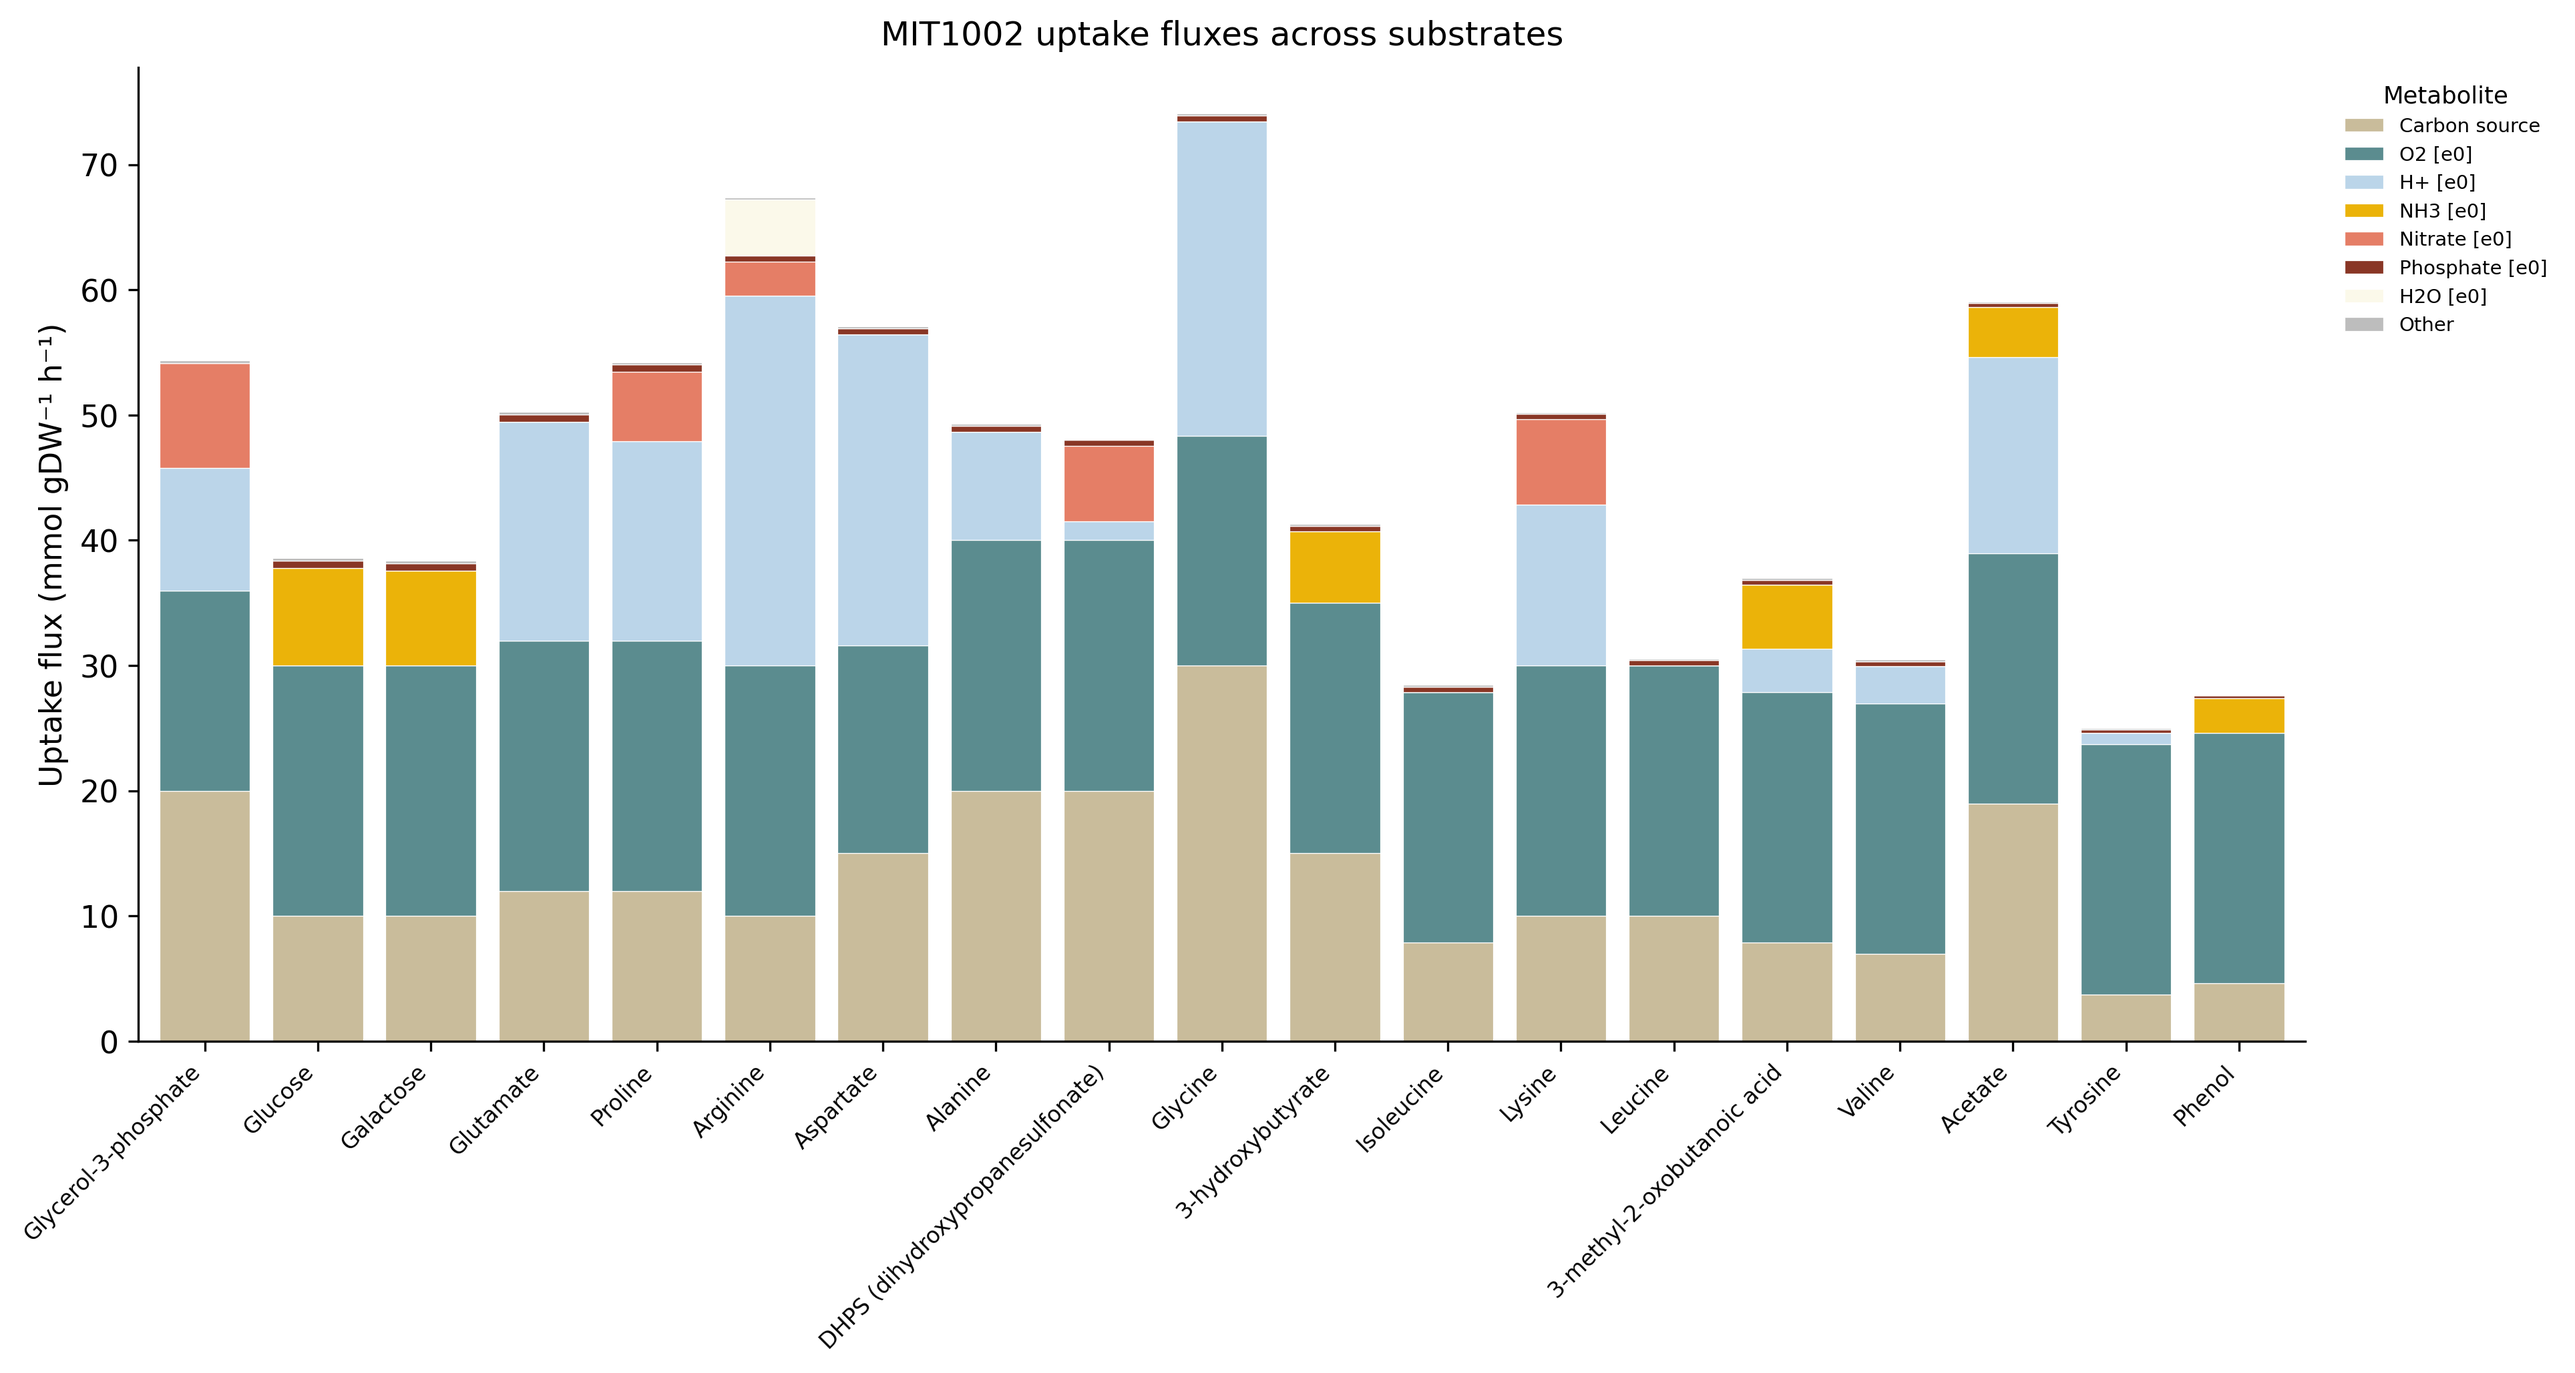
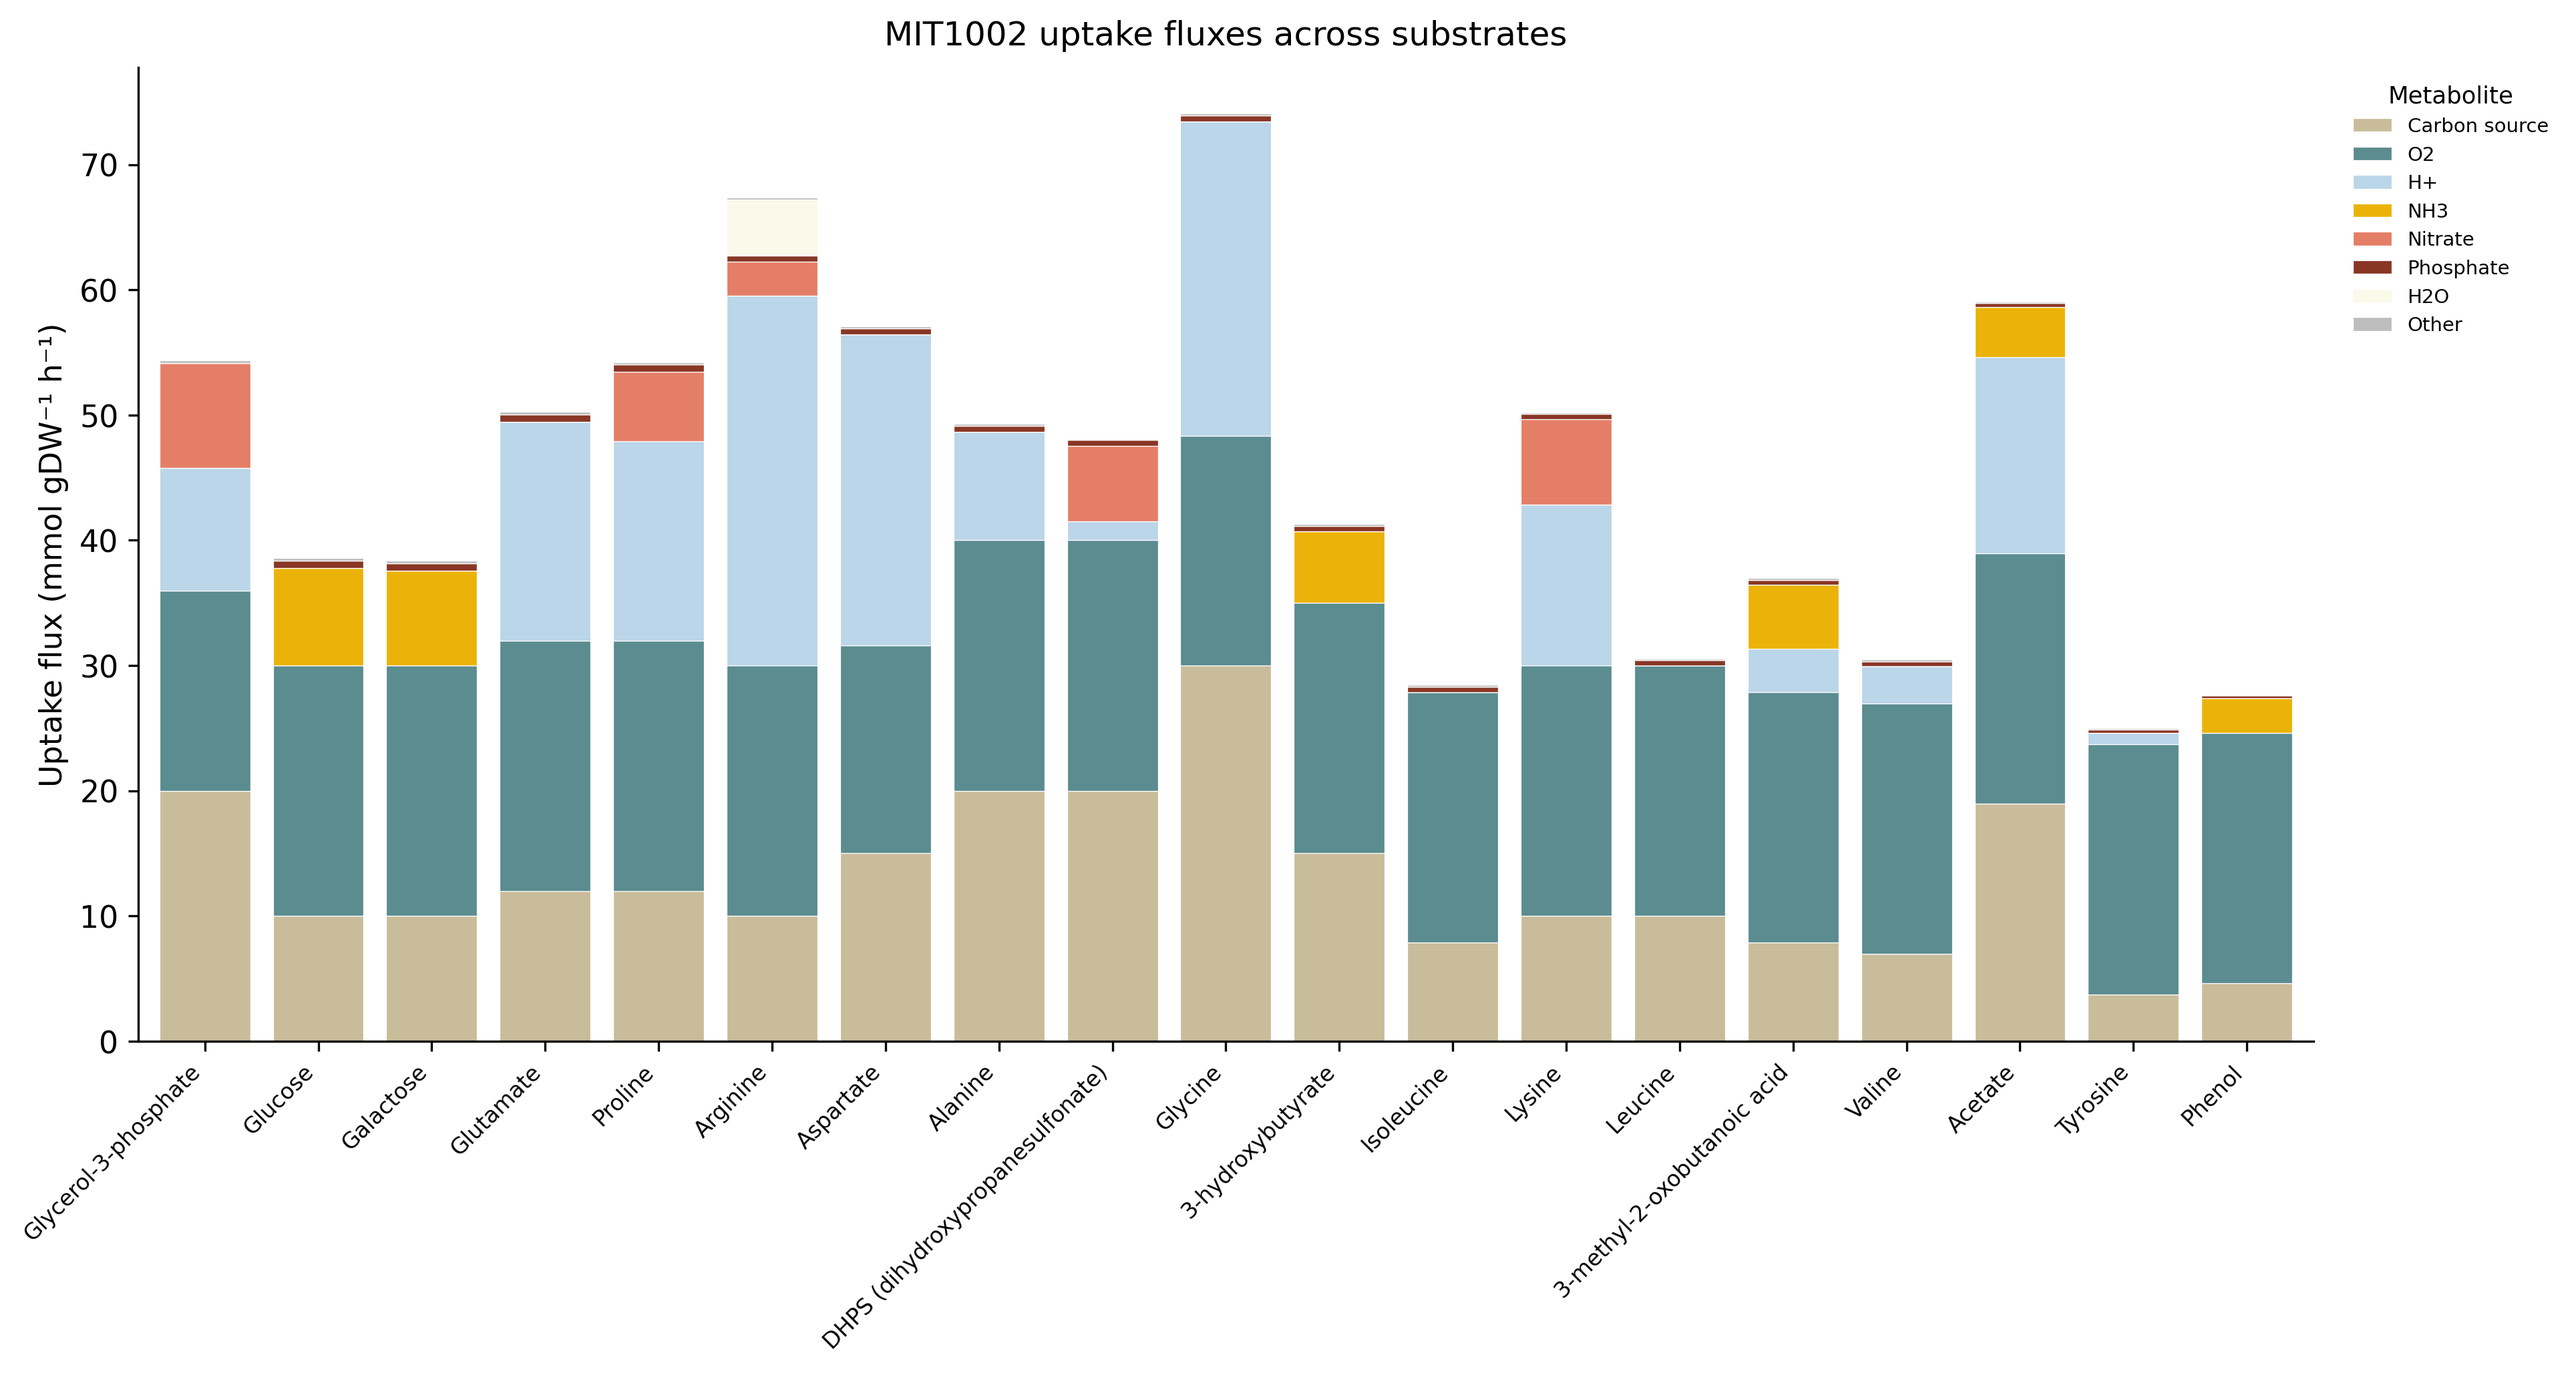
fix: remove "[e0]" from names in legend

diff --git a/simulations/growth_and_cue/run_growth_cue.py b/simulations/growth_and_cue/run_growth_cue.py
@@ -487,19 +487,25 @@ def plot_exchange_stacks(ex_df, carbon_source_names, out_dir):
     chart (each appears on a single bar). Byproducts/co-substrates keep
     consistent colours across both charts.
     """
+    # Separate uptake and exudation
     uptake = -ex_df.clip(upper=0)  # negative fluxes -> positive uptake
     exud = ex_df.clip(lower=0)  # positive fluxes -> exudation
+
+    # Drop zero-only columns (e.g. if no exudation of a metabolite occurs)
     uptake = uptake.loc[:, (uptake != 0).any(axis=0)]
     exud = exud.loc[:, (exud != 0).any(axis=0)]
+
+    # Merge all substrate carbon sources into one column in the uptake chart
+    # So they don't have unique colours and the chart is less busy
     uptake = _merge_carbon_sources(uptake, carbon_source_names)
 
     # Drop H2O from the exudation chart
-    exud = exud.drop(columns=["H2O [e0]"], errors="ignore")
+    exud = exud.drop(columns=["H2O"], errors="ignore")
 
     # Shared colour map over the "regular" metabolites (everything except the
     # fixed-colour Carbon source / Other), ordered by total magnitude so shared
     # metabolites get the same colour in both charts.
-    special = {"H2O [e0]", "H+ [e0]", "CO2 [e0]", "NH3 [e0]", "Carbon source", "Other"}
+    special = {"H2O", "H+", "CO2", "NH3", "Carbon source", "Other"}
     regular = (set(uptake.columns) | set(exud.columns)) - special
 
     def total_mag(c):
@@ -513,10 +519,10 @@ def plot_exchange_stacks(ex_df, carbon_source_names, out_dir):
     ordered_reg = sorted(regular, key=total_mag, reverse=True)
     colors = {c: EX_PALETTE[i % len(EX_PALETTE)] for i, c in enumerate(ordered_reg)}
     # Define the special colors
-    colors["H+ [e0]"] = H_COLOR
-    colors["H2O [e0]"] = H2O_COLOR
-    colors["CO2 [e0]"] = CO2_COLOR
-    colors["NH3 [e0]"] = NH3_COLOR
+    colors["H+"] = H_COLOR
+    colors["H2O"] = H2O_COLOR
+    colors["CO2"] = CO2_COLOR
+    colors["NH3"] = NH3_COLOR
     colors["Carbon source"] = CARBON_SOURCE_COLOR
     colors["Other"] = OTHER_COLOR
 
@@ -563,9 +569,12 @@ def main():
     order = summary_df.sort_values("growth_rate", ascending=False).index.tolist()
     ex_df = build_exchange_df(model, ex_records, order, EX_FLUX_THRESHOLD)
     ex_df.to_csv(OUT_PATH / "exchange_fluxes.csv")
+    # Drop the " [e0]" suffix from the metabolite names for cleaner labels
+    ex_df = ex_df.rename(columns=lambda c: c.replace(" [e0]", ""))
     # Metabolite names that are substrate carbon sources (merged in uptake chart)
+    # Remove the " [e0]" suffix from the names with "[:-5]"
     carbon_source_names = {
-        next(iter(model.reactions.get_by_id(r["exchange_id"]).metabolites)).name
+        next(iter(model.reactions.get_by_id(r["exchange_id"]).metabolites)).name[:-5]
         for _, r in substrate_df.iterrows()
     }
     plot_exchange_stacks(ex_df, carbon_source_names, OUT_PATH)
